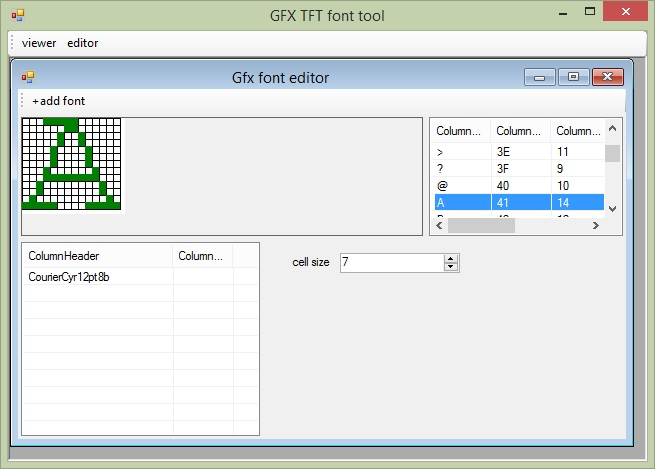
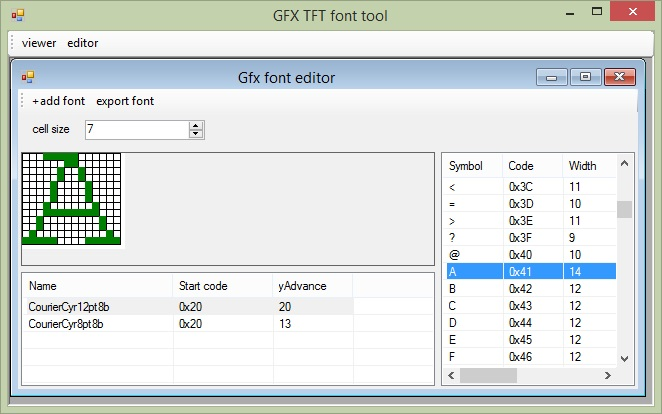
upds

diff --git a/src/Form1.Designer.cs b/src/Form1.Designer.cs
@@ -45,24 +45,25 @@ namespace gfxfont
             this.listView2 = new System.Windows.Forms.ListView();
             this.columnHeader3 = ((System.Windows.Forms.ColumnHeader)(new System.Windows.Forms.ColumnHeader()));
             this.columnHeader4 = ((System.Windows.Forms.ColumnHeader)(new System.Windows.Forms.ColumnHeader()));
+            this.columnHeader9 = ((System.Windows.Forms.ColumnHeader)(new System.Windows.Forms.ColumnHeader()));
             this.numericUpDown4 = new System.Windows.Forms.NumericUpDown();
             this.tableLayoutPanel1 = new System.Windows.Forms.TableLayoutPanel();
             this.panel1 = new System.Windows.Forms.Panel();
             this.panel2 = new System.Windows.Forms.Panel();
+            this.panel3 = new System.Windows.Forms.Panel();
             this.label1 = new System.Windows.Forms.Label();
             this.toolStrip1 = new System.Windows.Forms.ToolStrip();
             this.toolStripButton1 = new System.Windows.Forms.ToolStripButton();
             this.toolStripButton2 = new System.Windows.Forms.ToolStripButton();
-            this.columnHeader9 = ((System.Windows.Forms.ColumnHeader)(new System.Windows.Forms.ColumnHeader()));
-            this.panel3 = new System.Windows.Forms.Panel();
+            this.columnHeader10 = ((System.Windows.Forms.ColumnHeader)(new System.Windows.Forms.ColumnHeader()));
             ((System.ComponentModel.ISupportInitialize)(this.pictureBox1)).BeginInit();
             this.contextMenuStrip1.SuspendLayout();
             ((System.ComponentModel.ISupportInitialize)(this.numericUpDown4)).BeginInit();
             this.tableLayoutPanel1.SuspendLayout();
             this.panel1.SuspendLayout();
             this.panel2.SuspendLayout();
-            this.toolStrip1.SuspendLayout();
             this.panel3.SuspendLayout();
+            this.toolStrip1.SuspendLayout();
             this.SuspendLayout();
             // 
             // pictureBox1
@@ -83,7 +84,8 @@ namespace gfxfont
             this.columnHeader5,
             this.columnHeader6,
             this.columnHeader7,
-            this.columnHeader8});
+            this.columnHeader8,
+            this.columnHeader10});
             this.listView1.ContextMenuStrip = this.contextMenuStrip1;
             this.listView1.Dock = System.Windows.Forms.DockStyle.Fill;
             this.listView1.FullRowSelect = true;
@@ -91,11 +93,35 @@ namespace gfxfont
             this.listView1.HideSelection = false;
             this.listView1.Location = new System.Drawing.Point(0, 0);
             this.listView1.Name = "listView1";
-            this.listView1.Size = new System.Drawing.Size(194, 274);
+            this.listView1.Size = new System.Drawing.Size(194, 394);
             this.listView1.TabIndex = 7;
             this.listView1.UseCompatibleStateImageBehavior = false;
             this.listView1.View = System.Windows.Forms.View.Details;
             this.listView1.SelectedIndexChanged += new System.EventHandler(this.listView1_SelectedIndexChanged);
+            // 
+            // columnHeader1
+            // 
+            this.columnHeader1.Text = "Symbol";
+            // 
+            // columnHeader2
+            // 
+            this.columnHeader2.Text = "Code";
+            // 
+            // columnHeader5
+            // 
+            this.columnHeader5.Text = "Width";
+            // 
+            // columnHeader6
+            // 
+            this.columnHeader6.Text = "Height";
+            // 
+            // columnHeader7
+            // 
+            this.columnHeader7.Text = "xAdvance";
+            // 
+            // columnHeader8
+            // 
+            this.columnHeader8.Text = "xOffset";
             // 
             // contextMenuStrip1
             // 
@@ -131,7 +157,7 @@ namespace gfxfont
             this.listView2.HideSelection = false;
             this.listView2.Location = new System.Drawing.Point(0, 0);
             this.listView2.Name = "listView2";
-            this.listView2.Size = new System.Drawing.Size(589, 114);
+            this.listView2.Size = new System.Drawing.Size(389, 114);
             this.listView2.TabIndex = 8;
             this.listView2.UseCompatibleStateImageBehavior = false;
             this.listView2.View = System.Windows.Forms.View.Details;
@@ -146,6 +172,11 @@ namespace gfxfont
             // 
             this.columnHeader4.Text = "Start code";
             this.columnHeader4.Width = 100;
+            // 
+            // columnHeader9
+            // 
+            this.columnHeader9.Text = "yAdvance";
+            this.columnHeader9.Width = 80;
             // 
             // numericUpDown4
             // 
@@ -185,18 +216,29 @@ namespace gfxfont
             this.panel1.Dock = System.Windows.Forms.DockStyle.Fill;
             this.panel1.Location = new System.Drawing.Point(398, 38);
             this.panel1.Name = "panel1";
-            this.panel1.Size = new System.Drawing.Size(194, 274);
+            this.tableLayoutPanel1.SetRowSpan(this.panel1, 2);
+            this.panel1.Size = new System.Drawing.Size(194, 394);
             this.panel1.TabIndex = 1;
             // 
             // panel2
             // 
-            this.tableLayoutPanel1.SetColumnSpan(this.panel2, 2);
             this.panel2.Controls.Add(this.listView2);
             this.panel2.Dock = System.Windows.Forms.DockStyle.Fill;
             this.panel2.Location = new System.Drawing.Point(3, 318);
             this.panel2.Name = "panel2";
-            this.panel2.Size = new System.Drawing.Size(589, 114);
+            this.panel2.Size = new System.Drawing.Size(389, 114);
             this.panel2.TabIndex = 2;
+            // 
+            // panel3
+            // 
+            this.tableLayoutPanel1.SetColumnSpan(this.panel3, 2);
+            this.panel3.Controls.Add(this.label1);
+            this.panel3.Controls.Add(this.numericUpDown4);
+            this.panel3.Dock = System.Windows.Forms.DockStyle.Fill;
+            this.panel3.Location = new System.Drawing.Point(3, 3);
+            this.panel3.Name = "panel3";
+            this.panel3.Size = new System.Drawing.Size(589, 29);
+            this.panel3.TabIndex = 3;
             // 
             // label1
             // 
@@ -238,21 +280,9 @@ namespace gfxfont
             this.toolStripButton2.Text = "export font";
             this.toolStripButton2.Click += new System.EventHandler(this.toolStripButton2_Click);
             // 
-            // columnHeader9
+            // columnHeader10
             // 
-            this.columnHeader9.Text = "yAdvance";
-            this.columnHeader9.Width = 80;
-            // 
-            // panel3
-            // 
-            this.tableLayoutPanel1.SetColumnSpan(this.panel3, 2);
-            this.panel3.Controls.Add(this.label1);
-            this.panel3.Controls.Add(this.numericUpDown4);
-            this.panel3.Dock = System.Windows.Forms.DockStyle.Fill;
-            this.panel3.Location = new System.Drawing.Point(3, 3);
-            this.panel3.Name = "panel3";
-            this.panel3.Size = new System.Drawing.Size(589, 29);
-            this.panel3.TabIndex = 3;
+            this.columnHeader10.Text = "yOffset";
             // 
             // Form1
             // 
@@ -269,10 +299,10 @@ namespace gfxfont
             this.tableLayoutPanel1.ResumeLayout(false);
             this.panel1.ResumeLayout(false);
             this.panel2.ResumeLayout(false);
-            this.toolStrip1.ResumeLayout(false);
-            this.toolStrip1.PerformLayout();
             this.panel3.ResumeLayout(false);
             this.panel3.PerformLayout();
+            this.toolStrip1.ResumeLayout(false);
+            this.toolStrip1.PerformLayout();
             this.ResumeLayout(false);
             this.PerformLayout();
 
@@ -304,6 +334,7 @@ namespace gfxfont
         private System.Windows.Forms.ToolStripMenuItem pasteGlyphToolStripMenuItem;
         private System.Windows.Forms.ColumnHeader columnHeader9;
         private System.Windows.Forms.Panel panel3;
+        private System.Windows.Forms.ColumnHeader columnHeader10;
     }
 }
 

diff --git a/src/Form1.cs b/src/Form1.cs
@@ -33,23 +33,23 @@ namespace gfxfont
             }
         }
 
-
         void setFont(GfxFont font)
         {
-            _font = font;
-            //'\u0410';
+            _font = font;            
             listView1.Items.Clear();
             for (int i = 0; i < font.Glyphs.Count; i++)
             {
                 ushort c = (ushort)(i + font.StartCode);
-                font.Glyphs[i].Code = c;
-                byte b1 = (byte)(c & 0xff);
-                byte b2 = (byte)((c >> 8) & 0xff);
-                var str = Encoding.Unicode.GetString(new[] { b1, b2 });
+                font.Glyphs[i].Code = c;                
                 char cc = (char)c;
-                listView1.Items.Add(new ListViewItem(new string[] { cc+"",
-                    "0x"+c.ToString("X") , font.Glyphs[i].Width.ToString() , font.Glyphs[i].Height.ToString()
-              ,  font.Glyphs[i].xOffset.ToString() ,  font.Glyphs[i].yOffset.ToString()
+                listView1.Items.Add(new ListViewItem(new string[] {
+                    $"{cc}",
+                    "0x"+c.ToString("X"),
+                    font.Glyphs[i].Width.ToString(),
+                    font.Glyphs[i].Height.ToString(),
+                    font.Glyphs[i].xAdvance.ToString(),
+                    font.Glyphs[i].xOffset.ToString(),
+                    font.Glyphs[i].yOffset.ToString()
                 })
                 //{ Tag = c });
                 { Tag = font.Glyphs[i] });
